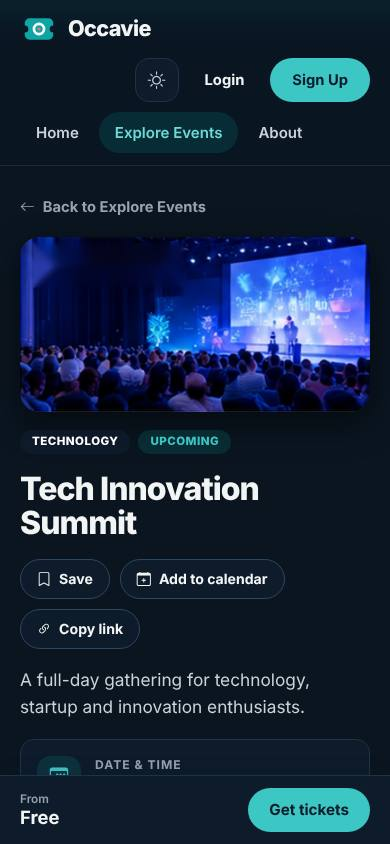
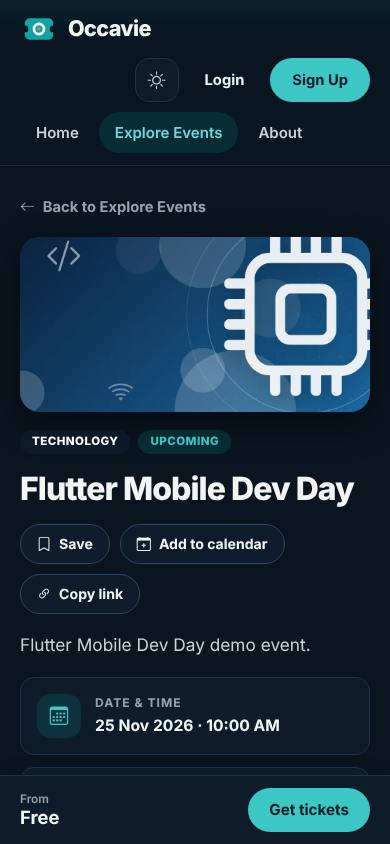
Photo dashboards, category cover artwork, 30 more demo events
Claude-Session: https://claude.ai/code/session_0133mjV3fwqNK9PBtkP1vyh6

diff --git a/scripts/occavie-more-events.js b/scripts/occavie-more-events.js
@@ -1,0 +1,93 @@
+// Occavie: 30 ADDITIONAL upcoming demo events (mongosh / Compass shell). Additive and re-runnable:
+// it only deletes records whose _id starts with "more30_" (its own earlier run) and never touches other events,
+// bookings, users or the 40-event seed. Events use no uploaded photo, so the site shows a category cover.
+(function () {
+  const d = db.getSiblingDB("eventflow");
+  const organizer = d.users.findOne({ email: "organizer@eventflow.com" });
+  if (!organizer) throw new Error("Start Occavie once to create the demo organizer, then run this script.");
+  const organizerId = String(organizer._id);
+  const tag = "OCCAVIE_MORE30";
+  for (const c of ["events", "event_ticket_types", "event_schedule"]) d.getCollection(c).deleteMany({ _id: /^more30_/ });
+
+  // Same time handling as the 40-event seed, so times display correctly whatever timezone the server uses.
+  let timeShift = 0;
+  const sample = d.events.findOne({ title: "Tech Innovation Summit", time: { $type: "date" } });
+  if (sample && sample.time instanceof Date) {
+    timeShift = sample.time.getUTCHours() * 60 + sample.time.getUTCMinutes() - 600;
+    if (timeShift > 720) timeShift -= 1440;
+    if (timeShift < -720) timeShift += 1440;
+  }
+  const timeOf = (h, m) => { const x = new Date(Date.UTC(2026, 8, 23)); x.setUTCMinutes(h * 60 + (m || 0) + timeShift); return x; };
+  const today = new Date();
+  const dateIn = n => new Date(Date.UTC(today.getUTCFullYear(), today.getUTCMonth(), today.getUTCDate() + n, 12));
+  const money = x => NumberDecimal(String(x));
+
+  // [title, category, venue, days from today, hour, minute, capacity, price in BDT]
+  const rows = [
+    ["Flutter Mobile Dev Day", "Technology", "Bangladesh Startup Hub", 7, 10, 0, 160, 400],
+    ["Cloud Native Meetup", "Technology", "BICC, Dhaka", 11, 17, 0, 220, 0],
+    ["Women in Leadership Summit", "Business", "Gulshan Innovation Hub", 14, 9, 30, 300, 900],
+    ["Small Business Finance Clinic", "Business", "Motijheel Training Centre", 17, 11, 0, 110, 250],
+    ["Morning Yoga by the Lake", "Health", "Dhanmondi Lake", 6, 6, 30, 80, 0],
+    ["Nutrition & Fitness Workshop", "Health", "SEU Community Hall", 19, 10, 0, 120, 150],
+    ["Inter-Department Cricket Cup", "Sports", "SEU Sports Ground", 9, 14, 0, 600, 100],
+    ["5K Fun Run for Clean Air", "Sports", "Hatirjheel Running Track", 23, 6, 45, 700, 200],
+    ["Intro to Machine Learning", "Education", "SEU CSE Lab 2", 13, 10, 30, 90, 300],
+    ["Scholarship & Study Abroad Fair", "Education", "SEU Central Auditorium", 27, 10, 0, 800, 0],
+    ["Acoustic Evening", "Music", "Banani Creative Studio", 16, 18, 30, 150, 350],
+    ["Battle of the Bands", "Music", "SEU Open Stage", 30, 17, 0, 900, 250],
+    ["Poster & Brand Design Jam", "Design", "Banani Creative Studio", 21, 11, 0, 70, 300],
+    ["Figma for Beginners", "Design", "SEU Seminar Hall", 33, 14, 0, 100, 0],
+    ["Resume & LinkedIn Clinic", "Career", "SEU Seminar Hall", 10, 11, 0, 140, 0],
+    ["Tech Hiring Day", "Career", "International Convention City", 36, 10, 0, 500, 0],
+    ["Tree Plantation Drive", "Community", "Hatirjheel, Dhaka", 12, 8, 0, 200, 0],
+    ["Neighbourhood Book Swap", "Community", "Dhanmondi Lake", 25, 16, 0, 120, 0],
+    ["Open Source Sprint", "Technology", "SEU Computer Lab", 28, 9, 30, 85, 0],
+    ["Cybersecurity CTF Night", "Technology", "Dhaka Innovation Center", 40, 18, 0, 180, 200],
+    ["Investor Speed Meetings", "Business", "Gulshan Business Centre", 44, 13, 0, 90, 600],
+    ["Mental Wellbeing Circle", "Health", "SEU Community Hall", 47, 15, 0, 60, 0],
+    ["Table Tennis Open", "Sports", "SEU Indoor Hall", 50, 15, 30, 128, 80],
+    ["Research Paper Writing Workshop", "Education", "SEU Library Hall", 53, 10, 0, 100, 0],
+    ["Folk Music Mehfil", "Music", "University Auditorium", 56, 18, 0, 400, 150],
+    ["Motion Graphics Workshop", "Design", "Banani Creative Studio", 59, 11, 0, 75, 450],
+    ["Internship Showcase", "Career", "SEU Central Auditorium", 62, 11, 0, 450, 0],
+    ["Charity Food Fair", "Community", "Southeast University Ground", 66, 12, 0, 1000, 0],
+    ["DevOps Practice Day", "Technology", "BICC, Dhaka", 70, 9, 30, 150, 500],
+    ["Startup Weekend Dhaka", "Business", "Bangladesh Startup Hub", 74, 9, 0, 250, 700]
+  ];
+  const key = i => String(i + 1).padStart(2, "0");
+  const id = i => "more30_event_" + key(i);
+
+  d.events.insertMany(rows.map((r, i) => ({
+    _id: id(i), title: r[0], category: r[1], location: r[2], date: dateIn(r[3]), time: timeOf(r[4], r[5]),
+    description: r[0] + " brings people together at " + r[2] + " for talks, hands-on sessions and networking. Demo event for Occavie.",
+    capacity: r[6], status: "UPCOMING", featured: false, organizerId, organizerName: organizer.fullName,
+    imageUrl: "/images/event-visual.png",   // replaced on the site by a category cover
+    pricingType: r[7] > 0 ? "PAID" : "FREE", basePrice: money(r[7]), seedTag: tag,
+    _class: "com.eventflow.model.Event"
+  })));
+
+  const tickets = [];
+  rows.forEach((r, i) => {
+    tickets.push({ _id: "more30_ticket_" + key(i) + "_std", eventId: id(i), name: r[7] > 0 ? "Standard" : "General Admission",
+      description: r[7] > 0 ? "Regular event entry" : "Free admission", price: money(r[7]),
+      capacity: r[7] > 0 ? Math.floor(r[6] * 0.8) : r[6], active: true, sortOrder: 1, seedTag: tag, _class: "com.eventflow.model.EventTicketType" });
+    if (r[7] > 0) tickets.push({ _id: "more30_ticket_" + key(i) + "_vip", eventId: id(i), name: "VIP",
+      description: "Priority seating and enhanced access", price: money(r[7] * 2), capacity: r[6] - Math.floor(r[6] * 0.8),
+      active: true, sortOrder: 2, seedTag: tag, _class: "com.eventflow.model.EventTicketType" });
+  });
+  d.event_ticket_types.insertMany(tickets);
+
+  const sessions = [];
+  rows.forEach((r, i) => {
+    const start = r[4] * 60 + r[5];
+    [["Registration & Welcome", 0, 25], ["Main Session: " + r[0], 30, 100], ["Questions & Networking", 110, 155]].forEach((p, j) => {
+      const f = start + p[1], t = start + p[2];
+      sessions.push({ _id: "more30_schedule_" + key(i) + "_" + (j + 1), eventId: id(i), title: p[0],
+        startTime: timeOf(Math.floor(f / 60) % 24, f % 60), endTime: timeOf(Math.floor(t / 60) % 24, t % 60),
+        location: r[2], description: "", speakerId: null, seedTag: tag, _class: "com.eventflow.model.EventScheduleItem" });
+    });
+  });
+  d.event_schedule.insertMany(sessions);
+  print("Added " + rows.length + " upcoming events, " + tickets.length + " ticket types, " + sessions.length + " sessions.");
+})();

diff --git a/src/main/resources/templates/dashboard.html b/src/main/resources/templates/dashboard.html
@@ -6,7 +6,9 @@
 <div class="app-shell">
     <div th:replace="~{fragments :: sidebar('dashboard')}"></div>
     <main class="app-main">
-        <section class="page-heading dashboard-heading">
+        <section class="page-heading dashboard-heading dash-photo-hero">
+            <img class="dash-hero-img" alt="" width="1600" height="600" fetchpriority="high"
+                 th:src="${user.role == 'PARTICIPANT' ? '/images/home-conference-hero.webp' : (user.role == 'ORGANIZER' ? '/images/covers/business-2.webp' : '/images/covers/technology-1.webp')}" src="/images/home-conference-hero.webp">
             <div>
                 <span class="role-label" th:text="${user.role}">PARTICIPANT</span>
                 <h1 th:text="'Welcome back, ' + ${user.fullName}">Welcome back</h1>
@@ -40,6 +42,28 @@
             <a th:href="@{/profile}"><i class="bi bi-person-circle"></i><span>Profile &amp; settings</span></a>
             <a th:href="@{/contact}"><i class="bi bi-headset"></i><span>Support</span></a>
         </nav>
+
+        <section class="dash-cards" th:if="${cardEvents != null and !#lists.isEmpty(cardEvents)}" aria-labelledby="dashCardsHeading">
+            <div class="dash-cards-head">
+                <div><span class="section-kicker">EXPLORE</span><h2 id="dashCardsHeading" th:text="${cardHeading}">Recommended for you</h2><p th:text="${cardSubheading}">Subheading</p></div>
+                <a class="secondary-button" th:href="${user.role == 'ADMIN' ? '/admin/events' : (user.role == 'ORGANIZER' ? '/organizer/events' : '/events')}" href="/events">View all <i class="bi bi-arrow-right" aria-hidden="true"></i></a>
+            </div>
+            <div class="dash-card-grid">
+                <a class="dash-card" th:each="event : ${cardEvents}" th:href="${user.role == 'PARTICIPANT' ? '/events/' + event.id : (user.role == 'ORGANIZER' ? '/organizer/events/' + event.id + '/participants' : '/events/' + event.id)}" href="/events">
+                    <span class="dash-card-photo" th:with="efCover=${@display.listingImageUrl(event)}">
+                        <img data-event-image th:attr="data-event-category=${event.category}" th:src="${efCover}" src="/images/event-visual.png" th:alt="${event.title + ' cover image'}" alt="Event cover" width="480" height="300" loading="lazy" decoding="async">
+                        <span class="dash-card-tag" th:text="${event.category}">Technology</span>
+                    </span>
+                    <span class="dash-card-body">
+                        <span class="dash-card-date"><i class="bi bi-calendar3" aria-hidden="true"></i> <span th:text="${@display.eventDate(event)}">Date</span></span>
+                        <strong th:text="${event.title}">Event title</strong>
+                        <span class="dash-card-meta"><i class="bi bi-geo-alt" aria-hidden="true"></i> <span th:text="${event.location}">Venue</span></span>
+                        <span class="dash-card-price" th:text="${cardPrices[event.id]}">Free</span>
+                    </span>
+                </a>
+            </div>
+        </section>
+
         <section class="metric-grid" th:classappend="${user.role == 'PARTICIPANT'} ? ' ef-participant-metrics' : ''">
             <article class="metric-card" th:if="${user.role != 'PARTICIPANT'}"><div class="metric-icon"><i class="bi bi-calendar2-event"></i></div><div><span th:text="${metricOneLabel}">Metric</span><strong th:text="${metricOneValue}">0</strong></div></article>
             <article class="metric-card" th:if="${user.role != 'PARTICIPANT'}"><div class="metric-icon"><i class="bi bi-clock-history"></i></div><div><span th:text="${metricTwoLabel}">Metric</span><strong th:text="${metricTwoValue}">0</strong></div></article>

diff --git a/src/main/resources/static/css/occavie-app.css b/src/main/resources/static/css/occavie-app.css
@@ -651,3 +651,30 @@ td.action-cell > *:last-child { margin-right: 0; }
 .dashboard-content-grid { grid-template-columns: minmax(0, 1fr); }
 .dashboard-content-grid > * { min-width: 0; }
 @media (min-width: 1100px) { .dashboard-content-grid:not(.ef-single-column) { grid-template-columns: minmax(0, 1.6fr) minmax(0, 1fr); } }
+
+/* ---- Photo dashboard hero + event photo cards ---- */
+.dash-photo-hero { isolation: isolate; background: #0E1B2A; box-shadow: 0 20px 50px rgba(14,27,42,.35); min-height: 190px; }
+.dash-photo-hero .dash-hero-img { position: absolute; inset: 0; width: 100%; height: 100%; object-fit: cover; z-index: -2; }
+.dash-photo-hero::before { content: ""; position: absolute; inset: 0; z-index: -1; background: linear-gradient(95deg, rgba(14,27,42,.92), rgba(14,27,42,.55) 60%, rgba(14,27,42,.2)); }
+.dash-photo-hero::after { display: none; }
+.dash-photo-hero h1, .dash-photo-hero p { color: #fff; }
+.dash-photo-hero .role-label { background: rgba(255,255,255,.18); color: #fff; }
+.dash-cards { display: grid; gap: 16px; }
+.dash-cards-head { display: flex; justify-content: space-between; align-items: end; gap: 16px; flex-wrap: wrap; }
+.dash-cards-head h2 { margin: 2px 0 0; }
+.dash-cards-head p { margin: 4px 0 0; color: var(--muted); }
+.dash-card-grid { display: grid; gap: 16px; grid-template-columns: repeat(4, minmax(0, 1fr)); }
+.dash-card { display: flex; flex-direction: column; background: var(--surface); border: 1px solid var(--line); border-radius: 18px; overflow: hidden; text-decoration: none; color: inherit; box-shadow: var(--shadow-sm); transition: transform .18s, box-shadow .18s; }
+.dash-card:hover { transform: translateY(-4px); box-shadow: var(--shadow); }
+.dash-card-photo { position: relative; display: block; aspect-ratio: 16 / 10; overflow: hidden; background: var(--surface-2); }
+.dash-card-photo img { width: 100%; height: 100%; object-fit: cover; transition: transform .5s; }
+.dash-card:hover .dash-card-photo img { transform: scale(1.06); }
+.dash-card-tag { position: absolute; left: 10px; top: 10px; padding: 4px 10px; border-radius: 999px; background: rgba(255,255,255,.94); color: #0E1B2A; font-size: .72rem; font-weight: 800; letter-spacing: .02em; }
+.dash-card-body { display: grid; gap: 6px; padding: 14px 16px 16px; }
+.dash-card-body strong { font-size: 1.02rem; line-height: 1.25; }
+.dash-card-date { color: var(--brand); font-weight: 700; font-size: .82rem; }
+.dash-card-meta { color: var(--muted); font-size: .84rem; }
+.dash-card-price { margin-top: 4px; font-weight: 800; color: var(--ink); }
+@media (max-width: 1280px) { .dash-card-grid { grid-template-columns: repeat(3, minmax(0, 1fr)); } }
+@media (max-width: 900px) { .dash-card-grid { grid-template-columns: repeat(2, minmax(0, 1fr)); } }
+@media (max-width: 520px) { .dash-card-grid { grid-template-columns: minmax(0, 1fr); } }

diff --git a/src/main/resources/templates/events.html b/src/main/resources/templates/events.html
@@ -58,7 +58,7 @@
                th:attr="data-category=${event.category},data-pricing=${efPaid ? 'PAID' : 'FREE'},data-status=${efStatus},data-date=${event.date},data-title=${event.title},data-location=${event.location},data-price=${startingPrices[event.id]},data-search=${event.title + ' ' + event.location + ' ' + event.description + ' ' + event.category + ' ' + event.organizerName}">
         <a class="ov-card-photo" th:href="@{'/events/' + ${event.id}}" href="/events" th:aria-label="${'View ' + event.title}" tabindex="-1">
           <img data-event-image th:attr="data-event-category=${event.category}"
-               th:src="${event.imageUrl != null and !#strings.isEmpty(event.imageUrl) ? event.imageUrl : '/images/event-visual.png'}"
+               th:with="efCover=${@display.listingImageUrl(event)}" th:src="${efCover}"
                src="/images/event-visual.png" th:alt="${event.title + ' cover image'}" alt="Event cover" width="600" height="375" loading="lazy" decoding="async">
           <span class="ov-card-tag" th:text="${event.category}">Technology</span>
         </a>

diff --git a/src/main/resources/templates/payment-checkout.html b/src/main/resources/templates/payment-checkout.html
@@ -10,7 +10,7 @@
     <div class="ef-payment-heading"><span>EVENT CHECKOUT</span><h1>Complete Registration</h1>
       <p>Review your ticket and complete your registration.</p></div>
     <div class="ef-checkout-event">
-      <img th:src="${event.imageUrl != null and !event.imageUrl.isBlank() ? event.imageUrl : '/images/event-visual.png'}" src="/images/event-visual.png" alt="Event cover" onerror="this.onerror=null;this.src='/images/event-visual.png'">
+      <img th:with="efCover=${@display.listingImageUrl(event)}" th:src="${efCover}" src="/images/event-visual.png" alt="Event cover" onerror="this.onerror=null;this.src='/images/event-visual.png'">
       <div class="ef-checkout-event-info"><h2 th:text="${event.title}">Event name</h2>
         <p><i class="bi bi-calendar3"></i> <span th:text="${@display.eventDate(event) + ' · ' + @display.eventTime(event)}">Date and time</span></p>
         <p><i class="bi bi-geo-alt"></i> <span th:text="${event.location}">Location</span></p>

diff --git a/src/main/resources/templates/home.html b/src/main/resources/templates/home.html
@@ -46,7 +46,7 @@
         <div class="ov-event-grid" th:if="${!#lists.isEmpty(featuredEvents)}">
             <article class="ov-event-card" th:each="event : ${featuredEvents}">
                 <a class="ov-card-photo" th:href="@{'/events/' + ${event.id}}" href="/events" th:aria-label="${'View details for ' + event.title}" tabindex="-1">
-                    <img data-event-image th:attr="data-event-category=${event.category}" th:src="${event.imageUrl != null and !#strings.isEmpty(event.imageUrl) ? event.imageUrl : '/images/event-visual.png'}"
+                    <img data-event-image th:attr="data-event-category=${event.category}" th:src="${event.imageUrl}"
                          src="/images/event-visual.png" th:alt="${event.title + ' cover image'}" alt="Event cover" width="600" height="375" loading="lazy" decoding="async">
                     <span class="ov-card-tag" th:text="${event.category}">Technology</span>
                 </a>

diff --git a/src/main/resources/templates/event-details.html b/src/main/resources/templates/event-details.html
@@ -13,7 +13,7 @@
     <div class="ov-details-content">
       <section class="ov-details-overview">
         <img class="ov-details-cover" data-event-image th:attr="data-event-category=${event.category}"
-             th:src="${event.imageUrl != null and !#strings.isEmpty(event.imageUrl) ? event.imageUrl : '/images/event-visual.png'}" src="/images/event-visual.png" th:alt="${event.title}" alt="Event image">
+             th:with="efCover=${@display.listingImageUrl(event)}" th:src="${efCover}" src="/images/event-visual.png" th:alt="${event.title}" alt="Event image">
         <div class="ov-details-tags"><span class="ov-card-tag" th:text="${event.category}">Technology</span><span class="ov-status-pill" th:text="${@display.status(event)}">UPCOMING</span></div>
         <h1 th:text="${event.title}">Event title</h1>
         <div class="ov-actions-row" aria-label="Event actions">

diff --git a/src/main/java/com/eventflow/controller/MainController.java b/src/main/java/com/eventflow/controller/MainController.java
@@ -177,7 +177,7 @@ public class MainController {
     }
 
     private static String cover(Event event) {
-        return event.getImageUrl() != null && event.getImageUrl().startsWith("/event-images/") ? event.getImageUrl() : "/images/og-default.png";
+        return event.getImageUrl() != null && event.getImageUrl().startsWith("/event-images/") ? event.getImageUrl() : com.eventflow.view.ViewFormatter.coverFor(event);
     }
 
     /** schema.org/Event structured data. Every value is JSON-escaped and angle brackets are \\u-escaped so it is safe inside a script tag. */
@@ -284,6 +284,9 @@ public class MainController {
         model.addAttribute("recentNotifications", notificationService.findRecentForUser(user.getId()).stream().limit(5).toList());
         model.addAttribute("savedEvents", savedEventService.savedEvents(user).stream().limit(6).toList());
         model.addAttribute("suggestedEvents", suggestionService.forParticipant(user, 3));
+        List<Event> recommended = events.stream().filter(eventService::isUpcoming)
+                .filter(event -> !ids.contains(event.getId())).limit(8).toList();
+        addPhotoCards(model, "Recommended for you", "Upcoming events you have not booked yet", recommended);
         return "dashboard";
     }
 
@@ -308,6 +311,8 @@ public class MainController {
         model.addAttribute("dashboardEvents", dashboardEvents);
         model.addAttribute("registrationCounts", eventService.registrationCounts(dashboardEvents));
         model.addAttribute("analytics", analyticsService.forEvents(events));
+        addPhotoCards(model, "Your events", "Your upcoming events at a glance",
+                events.stream().filter(eventService::isUpcoming).limit(8).toList());
         return "dashboard";
     }
 
@@ -331,6 +336,15 @@ public class MainController {
         model.addAttribute("registrationCounts", eventService.registrationCounts(dashboardEvents));
         model.addAttribute("recentUsers", userService.findDashboardPreview());
         model.addAttribute("analytics", analyticsService.forEvents(events));
+        addPhotoCards(model, "Upcoming on Occavie", "The next events across the platform",
+                events.stream().filter(eventService::isUpcoming).limit(8).toList());
         return "dashboard";
+    }
+
+    private void addPhotoCards(Model model, String heading, String subheading, List<Event> cards) {
+        model.addAttribute("cardHeading", heading);
+        model.addAttribute("cardSubheading", subheading);
+        model.addAttribute("cardEvents", cards);
+        model.addAttribute("cardPrices", startingPriceLabels(cards));
     }
 }

diff --git a/src/main/java/com/eventflow/view/ViewFormatter.java b/src/main/java/com/eventflow/view/ViewFormatter.java
@@ -75,11 +75,24 @@ public class ViewFormatter {
         BigDecimal price = EventRules.basePrice(event);
         return !EventRules.isPaid(event) || price.signum() <= 0 ? "Free" : bdt(price);
     }
+    private static final java.util.Set<String> COVER_CATEGORIES = java.util.Set.of("technology", "business", "education",
+            "health", "music", "sports", "career", "community", "design");
+
+    /** The event's own photo, or an original category cover (3 variants per category, chosen by event id). */
     public String listingImageUrl(Event event) {
-        if (event == null || event.getImageUrl() == null || event.getImageUrl().isBlank()) {
-            return "/images/event-visual.png";
+        if (event != null && event.getImageUrl() != null && !event.getImageUrl().isBlank()
+                && !"/images/event-visual.png".equals(event.getImageUrl())) {
+            return event.getImageUrl();
         }
-        return event.getImageUrl();
+        return coverFor(event);
+    }
+
+    public static String coverFor(Event event) {
+        String category = event == null || event.getCategory() == null ? "" : event.getCategory().trim().toLowerCase(java.util.Locale.ROOT);
+        String slug = COVER_CATEGORIES.contains(category) ? category : "other";
+        String key = event == null || event.getId() == null ? (event == null || event.getTitle() == null ? "" : event.getTitle()) : event.getId();
+        int variant = Math.floorMod((key + (event == null || event.getTitle() == null ? "" : event.getTitle())).hashCode(), 3) + 1;
+        return "/images/covers/" + slug + "-" + variant + ".webp";
     }
 
     public String ticketPrice(EventTicketType ticket) {

diff --git a/src/main/java/com/eventflow/dto/HomeEventCard.java b/src/main/java/com/eventflow/dto/HomeEventCard.java
@@ -10,7 +10,7 @@ public record HomeEventCard(
         String formattedDate, String location, boolean paid
 ) {
     public static HomeEventCard from(Event event, ViewFormatter display) {
-        return new HomeEventCard(event.getId(), event.getCategory(), event.getImageUrl(),
+        return new HomeEventCard(event.getId(), event.getCategory(), display.listingImageUrl(event),
                 event.getTitle(), display.eventDate(event), event.getLocation(), EventRules.isPaid(event));
     }
 }

diff --git a/README.md b/README.md
@@ -82,6 +82,10 @@ These credentials are public. In production they are disabled automatically once
 
 See [`.env.example`](.env.example) for every variable. Production (`SPRING_PROFILES_ACTIVE=prod`) requires `MONGODB_URI`, `OCCAVIE_PUBLIC_URL` (https), `OCCAVIE_REMEMBER_KEY` and `OCCAVIE_TICKET_SECRET` (24+ random characters each, different from each other) and **will not start** otherwise.
 
+## Demo data
+
+`scripts/eventflow-demo-40-no-registrations.js` seeds 40 events (it resets its own earlier seed). `scripts/occavie-more-events.js` adds 30 more upcoming events without touching anything else (run either in mongosh or the Compass shell). Events without an uploaded photo automatically get an original category cover (`/images/covers/`, three variants per category).
+
 ## Tests
 
 ```bash
